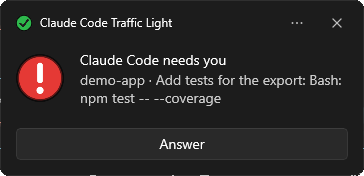
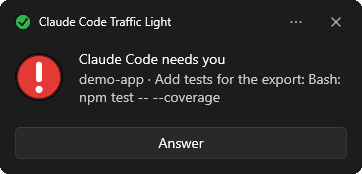
Animation: the permission panel and the Windows notifications
Two frames more: the permission prompt in the panel (with Open the session window)
and the finished and error notifications. The pictures of the notifications are cut
one pixel inside their border, so no bit of the desktop shows at the edges.

diff --git a/docs/index.html b/docs/index.html
@@ -46,7 +46,7 @@
   .phone img { display: block; width: 100%; height: auto; border-radius: 14px; border: 1px solid var(--line); }
   .phone.wide { grid-template-columns: minmax(0, 396px) 1fr; }
   .phone ul { margin: 0; padding-left: 20px; }
-  .shots { display: grid; grid-template-columns: minmax(0, 428px) minmax(0, 364px); gap: 28px; justify-content: start; align-items: start; }
+  .shots { display: grid; grid-template-columns: minmax(0, 428px) minmax(0, 362px); gap: 28px; justify-content: start; align-items: start; }
   .shots figure { margin: 0 0 16px; }
   .shots img { display: block; max-width: 100%; height: auto; }
   .shots figcaption { font-size: 15px; color: var(--muted); margin-top: 6px; }
@@ -102,15 +102,15 @@
     </figure>
     <div>
       <figure>
-        <img src="toast-done.png" width="364" height="165" loading="lazy" alt="Windows notification: Claude Code finished, demo-app, with the first line of what Claude did: added tests for the CSV and JSON export, all 13 pass">
+        <img src="toast-done.png" width="362" height="163" loading="lazy" alt="Windows notification: Claude Code finished, demo-app, with the first line of what Claude did: added tests for the CSV and JSON export, all 13 pass">
         <figcaption>Finished, with what was done.</figcaption>
       </figure>
       <figure>
-        <img src="toast-waiting.png" width="364" height="176" loading="lazy" alt="Windows notification: Claude Code needs you, demo-app, Bash: npm test, with an Answer button">
+        <img src="toast-waiting.png" width="362" height="174" loading="lazy" alt="Windows notification: Claude Code needs you, demo-app, Bash: npm test, with an Answer button">
         <figcaption>Needs you, with an Answer button when the panel is off.</figcaption>
       </figure>
       <figure>
-        <img src="toast-error.png" width="364" height="165" loading="lazy" alt="Windows notification: Claude stopped because of an error, a usage limit was reached, with Claude's words: you have hit your limit, resets 9pm">
+        <img src="toast-error.png" width="362" height="163" loading="lazy" alt="Windows notification: Claude stopped because of an error, a usage limit was reached, with Claude's words: you have hit your limit, resets 9pm">
         <figcaption>Stopped by an error, in Claude's own words.</figcaption>
       </figure>
     </div>

diff --git a/tools/screenshots/make-gif.py b/tools/screenshots/make-gif.py
@@ -51,12 +51,32 @@ def title():
     return img
 
 
+def stack(names, gap=14):
+    """Several pictures of the project page (docs) one above the other, as one picture."""
+    docs = target.parent
+    pics = [Image.open(docs / n).convert("RGBA") for n in names]
+    out = Image.new("RGBA", (max(p.width for p in pics), sum(p.height for p in pics) + gap * (len(pics) - 1)), BACK + (255,))
+    y = 0
+    for p in pics:
+        out.paste(p, (0, y), p)
+        y += p.height + gap
+    path = work / ("stack-" + "-".join(n.split(".")[0] for n in names) + ".png")
+    out.convert("RGB").save(path)
+    return path.name
+
+
+panel = Image.open(target.parent / "panel-permission.png")
+panel.save(work / "panel-permission.png")
+toasts = stack(["toast-done.png", "toast-error.png"])
+
 frames = [
     (title(), 2600),
     (scene("1-working.png", "Every session in the tray menu", "with its state and time, and Claude's usage limits on top"), 3000),
     (scene("2-panel.png", "Claude asks: answer from a panel", "no switching to its window; or from the phone, through ntfy"), 3800),
+    (scene("panel-permission.png", "A permission prompt, in the same panel", "allow once, allow and don't ask again, or open the session window first"), 3800),
     (scene("2-menu-waiting.png", "The light turns red while it waits", "the tray menu says which session needs you"), 2400),
     (scene("3-done.png", "Answered: it goes on, then it is done", "a notification only when a session needs you"), 2800),
+    (scene(toasts, "Windows notifications", "what was done when it finishes; what happened when an error stops it"), 3600),
     (scene("4-background.png", "Waiting for its own build: clock hands", "not \"done\" while the build runs; a notice if it takes half an hour"), 2800),
 ]
 images = [f.quantize(colors=128, method=Image.Quantize.MEDIANCUT, dither=Image.Dither.NONE) for f, _ in frames]
